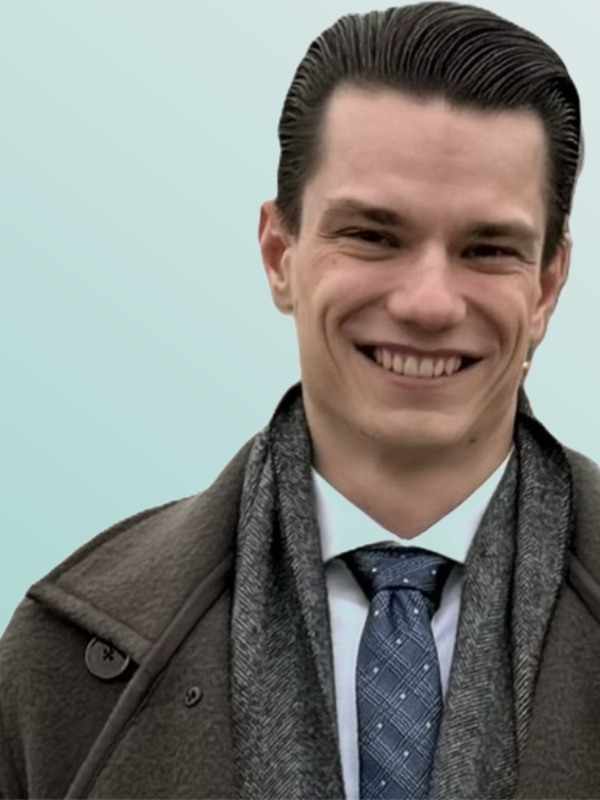
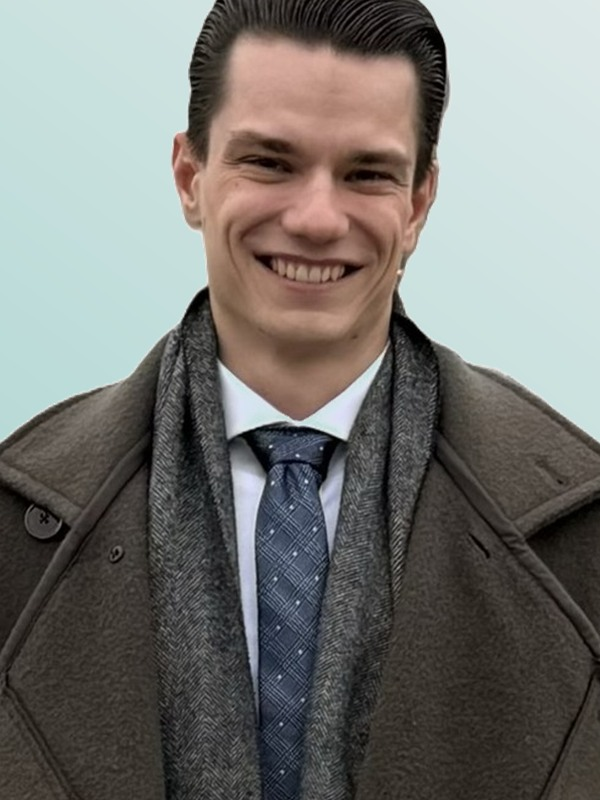
Fix team photo framing and update Samuel bio
- JB: tighter zoom (1.15x) with slight downward shift for better face framing
- SK: fixed DPI bug causing tiny/black render; reprocessed from original with correct 962x1167 bbox
- Samuel bio: replace 'Academic grounding in geopolitics' with threat intelligence / supply chain line

diff --git a/index.html b/index.html
@@ -1,15 +1,15 @@
-<!DOCTYPE html>
+<!DOCTYPE html>
 <html lang="en">
 <head>
   <meta charset="UTF-8" />
   <meta name="viewport" content="width=device-width, initial-scale=1.0" />
-  <title>Ashcairn — Technology Risk &amp; Resilience</title>
+  <title>Ashcairn â€” Technology Risk &amp; Resilience</title>
   <link rel="preconnect" href="https://fonts.googleapis.com" />
   <link rel="preconnect" href="https://fonts.gstatic.com" crossorigin />
   <link href="https://fonts.googleapis.com/css2?family=Sora:wght@300;400;500;600&family=Inter:ital,wght@0,300;0,400;0,500;0,600;0,900;1,300&display=swap" rel="stylesheet" />
   <style>
 
-    /* ── Reset ─────────────────────────────────────────────────── */
+    /* â”€â”€ Reset â”€â”€â”€â”€â”€â”€â”€â”€â”€â”€â”€â”€â”€â”€â”€â”€â”€â”€â”€â”€â”€â”€â”€â”€â”€â”€â”€â”€â”€â”€â”€â”€â”€â”€â”€â”€â”€â”€â”€â”€â”€â”€â”€â”€â”€â”€â”€â”€â”€â”€â”€ */
     *, *::before, *::after { box-sizing: border-box; margin: 0; padding: 0; }
 
     :root {
@@ -65,7 +65,7 @@
     .section-deep { padding: 124px 0; background: var(--bg-deep); }
     .section-warm { padding: 124px 0; background: var(--teal-light); }
 
-    /* ── Fade-in ───────────────────────────────────────────────── */
+    /* â”€â”€ Fade-in â”€â”€â”€â”€â”€â”€â”€â”€â”€â”€â”€â”€â”€â”€â”€â”€â”€â”€â”€â”€â”€â”€â”€â”€â”€â”€â”€â”€â”€â”€â”€â”€â”€â”€â”€â”€â”€â”€â”€â”€â”€â”€â”€â”€â”€â”€â”€â”€â”€ */
     .fade-in {
       opacity: 0;
       transform: translateY(12px);
@@ -74,7 +74,7 @@
     }
     .fade-in.visible { opacity: 1; transform: translateY(0); }
 
-    /* ── NAV ───────────────────────────────────────────────────── */
+    /* â”€â”€ NAV â”€â”€â”€â”€â”€â”€â”€â”€â”€â”€â”€â”€â”€â”€â”€â”€â”€â”€â”€â”€â”€â”€â”€â”€â”€â”€â”€â”€â”€â”€â”€â”€â”€â”€â”€â”€â”€â”€â”€â”€â”€â”€â”€â”€â”€â”€â”€â”€â”€â”€â”€â”€â”€ */
     nav {
       position: fixed;
       top: 0; left: 0; right: 0;
@@ -145,7 +145,7 @@
 
     .nav-cta:hover { background: var(--teal) !important; color: white !important; }
 
-    /* ── HERO ──────────────────────────────────────────────────── */
+    /* â”€â”€ HERO â”€â”€â”€â”€â”€â”€â”€â”€â”€â”€â”€â”€â”€â”€â”€â”€â”€â”€â”€â”€â”€â”€â”€â”€â”€â”€â”€â”€â”€â”€â”€â”€â”€â”€â”€â”€â”€â”€â”€â”€â”€â”€â”€â”€â”€â”€â”€â”€â”€â”€â”€â”€ */
     #hero {
       min-height: 100vh;
       display: flex;
@@ -299,7 +299,7 @@
 
     .btn-ghost:hover { color: var(--teal); border-color: var(--teal); }
 
-    /* ── SECTION HEADERS ───────────────────────────────────────── */
+    /* â”€â”€ SECTION HEADERS â”€â”€â”€â”€â”€â”€â”€â”€â”€â”€â”€â”€â”€â”€â”€â”€â”€â”€â”€â”€â”€â”€â”€â”€â”€â”€â”€â”€â”€â”€â”€â”€â”€â”€â”€â”€â”€â”€â”€â”€â”€ */
     .section-header {
       display: grid;
       grid-template-columns: 200px 1fr;
@@ -328,7 +328,7 @@
       margin-top: 14px;
     }
 
-    /* ── WHO WE ARE ────────────────────────────────────────────── */
+    /* â”€â”€ WHO WE ARE â”€â”€â”€â”€â”€â”€â”€â”€â”€â”€â”€â”€â”€â”€â”€â”€â”€â”€â”€â”€â”€â”€â”€â”€â”€â”€â”€â”€â”€â”€â”€â”€â”€â”€â”€â”€â”€â”€â”€â”€â”€â”€â”€â”€â”€â”€ */
     .who-quote {
       margin-top: 48px;
       padding: 36px 48px;
@@ -362,7 +362,7 @@
       position: relative;
     }
 
-    /* ── SERVICES ──────────────────────────────────────────────── */
+    /* â”€â”€ SERVICES â”€â”€â”€â”€â”€â”€â”€â”€â”€â”€â”€â”€â”€â”€â”€â”€â”€â”€â”€â”€â”€â”€â”€â”€â”€â”€â”€â”€â”€â”€â”€â”€â”€â”€â”€â”€â”€â”€â”€â”€â”€â”€â”€â”€â”€â”€â”€â”€ */
     .services-grid {
       display: grid;
       grid-template-columns: repeat(3, 1fr);
@@ -410,7 +410,7 @@
       line-height: 1.8;
     }
 
-    /* ── TEAM ──────────────────────────────────────────────────── */
+    /* â”€â”€ TEAM â”€â”€â”€â”€â”€â”€â”€â”€â”€â”€â”€â”€â”€â”€â”€â”€â”€â”€â”€â”€â”€â”€â”€â”€â”€â”€â”€â”€â”€â”€â”€â”€â”€â”€â”€â”€â”€â”€â”€â”€â”€â”€â”€â”€â”€â”€â”€â”€â”€â”€â”€â”€ */
 
     .team-grid {
       display: grid;
@@ -531,7 +531,7 @@
       margin-bottom: 12px;
     }
 
-    /* ── SPECIALISMS ───────────────────────────────────────────── */
+    /* â”€â”€ SPECIALISMS â”€â”€â”€â”€â”€â”€â”€â”€â”€â”€â”€â”€â”€â”€â”€â”€â”€â”€â”€â”€â”€â”€â”€â”€â”€â”€â”€â”€â”€â”€â”€â”€â”€â”€â”€â”€â”€â”€â”€â”€â”€â”€â”€â”€â”€ */
     .spec-list {
       display: grid;
       grid-template-columns: repeat(3, 1fr);
@@ -580,7 +580,7 @@
       line-height: 1.85;
     }
 
-    /* ── SELECTED WORK ─────────────────────────────────────────── */
+    /* â”€â”€ SELECTED WORK â”€â”€â”€â”€â”€â”€â”€â”€â”€â”€â”€â”€â”€â”€â”€â”€â”€â”€â”€â”€â”€â”€â”€â”€â”€â”€â”€â”€â”€â”€â”€â”€â”€â”€â”€â”€â”€â”€â”€â”€â”€â”€â”€ */
     .tombstone-grid {
       display: grid;
       grid-template-columns: repeat(4, 1fr);
@@ -693,7 +693,7 @@
     }
 
     .cs-d-item::before {
-      content: '→';
+      content: 'â†’';
       color: var(--teal);
       font-family: var(--font-mono);
       font-size: 11px;
@@ -725,7 +725,7 @@
     }
 
     .cs-outcome::before {
-      content: '✓';
+      content: 'âœ“';
       color: var(--teal);
       font-family: var(--font-mono);
       font-weight: 500;
@@ -733,7 +733,7 @@
       flex-shrink: 0;
     }
 
-    /* ── CONTACT ───────────────────────────────────────────────── */
+    /* â”€â”€ CONTACT â”€â”€â”€â”€â”€â”€â”€â”€â”€â”€â”€â”€â”€â”€â”€â”€â”€â”€â”€â”€â”€â”€â”€â”€â”€â”€â”€â”€â”€â”€â”€â”€â”€â”€â”€â”€â”€â”€â”€â”€â”€â”€â”€â”€â”€â”€â”€â”€â”€ */
     #contact {
       background: var(--ink);
       background-image: radial-gradient(ellipse at 95% 10%, rgba(13,148,136,0.10) 0%, transparent 55%);
@@ -820,7 +820,7 @@
 
     .btn-contact:hover { background: var(--teal); color: white; gap: 16px; }
 
-    /* ── FOOTER ────────────────────────────────────────────────── */
+    /* â”€â”€ FOOTER â”€â”€â”€â”€â”€â”€â”€â”€â”€â”€â”€â”€â”€â”€â”€â”€â”€â”€â”€â”€â”€â”€â”€â”€â”€â”€â”€â”€â”€â”€â”€â”€â”€â”€â”€â”€â”€â”€â”€â”€â”€â”€â”€â”€â”€â”€â”€â”€â”€â”€ */
     footer {
       background: #0f0f0f;
       border-top: 1px solid rgba(13,148,136,0.18);
@@ -849,7 +849,7 @@
       letter-spacing: 0.05em;
     }
 
-    /* ── Responsive ────────────────────────────────────────────── */
+    /* â”€â”€ Responsive â”€â”€â”€â”€â”€â”€â”€â”€â”€â”€â”€â”€â”€â”€â”€â”€â”€â”€â”€â”€â”€â”€â”€â”€â”€â”€â”€â”€â”€â”€â”€â”€â”€â”€â”€â”€â”€â”€â”€â”€â”€â”€â”€â”€â”€â”€ */
     @media (max-width: 1024px) {
       .team-grid { grid-template-columns: repeat(2, 1fr); gap: 40px; }
     }
@@ -950,7 +950,7 @@
     <div class="container">
       <div class="hero-inner">
         <div class="hero-label fade-in">
-          <span class="label">Technology Risk · Resilience · Advisory</span>
+          <span class="label">Technology Risk Â· Resilience Â· Advisory</span>
         </div>
         <h1 class="hero-headline fade-in">
           Understand<br>
@@ -964,8 +964,8 @@
           to handle what comes next.
         </p>
         <div class="hero-actions fade-in">
-          <a href="#contact" class="btn-primary">Work with us →</a>
-          <a href="#what" class="btn-ghost">What we do →</a>
+          <a href="#contact" class="btn-primary">Work with us â†’</a>
+          <a href="#what" class="btn-ghost">What we do â†’</a>
         </div>
       </div>
     </div>
@@ -1004,7 +1004,7 @@
         <div class="service-card fade-in">
           <div class="service-title">Understand</div>
           <div class="service-subtitle">The threats you actually face</div>
-          <p class="service-desc">We identify the specific threats you face: who, how, and from where — whether from sophisticated cyber crime groups, insiders and accidents, through to changing regulations.</p>
+          <p class="service-desc">We identify the specific threats you face: who, how, and from where â€” whether from sophisticated cyber crime groups, insiders and accidents, through to changing regulations.</p>
         </div>
 
         <div class="service-card fade-in">
@@ -1032,7 +1032,7 @@
         </div>
         <div class="fade-in">
           <h2 class="section-title">The people behind the advice.</h2>
-          <p class="section-body">Careers built across the major advisory firms. When you work with Ashcairn, you work with us — directly.</p>
+          <p class="section-body">Careers built across the major advisory firms. When you work with Ashcairn, you work with us â€” directly.</p>
         </div>
       </div>
       <div class="team-grid">
@@ -1081,15 +1081,15 @@
 
         <div class="team-card fade-in">
           <div class="team-photo">
-            <img src="team-jb.jpg" alt="Samuel Kudláč">
+            <img src="team-jb.jpg" alt="Samuel KudlÃ¡Ä">
             <div class="team-photo-overlay"></div>
             <div class="team-bio">
-              <div class="bio-name">Samuel Kudláč</div>
+              <div class="bio-name">Samuel KudlÃ¡Ä</div>
               <div class="bio-rule"></div>
-              <p class="bio-text">Provides boards and senior leadership with intelligence-led assessments of the threats that matter. Translates geopolitical dynamics into actionable insight for executive decision-making. Academic grounding in geopolitics.</p>
+              <p class="bio-text">Provides boards and senior leadership with intelligence-led assessments of the threats that matter. Translates geopolitical dynamics into actionable insight for executive decision-making. Professional background in threat intelligence and supply chain cyber risk management.</p>
             </div>
           </div>
-          <div class="team-name">Samuel Kudláč</div>
+          <div class="team-name">Samuel KudlÃ¡Ä</div>
           <div class="team-role">Cyber Threat Intelligence</div>
         </div>
 
@@ -1168,7 +1168,7 @@
           <div class="tombstone-client">London-based international private equity firm</div>
         </div>
       </div>
-      <p class="work-note fade-in">A non-exhaustive selection of engagements · Further detail available on request</p>
+      <p class="work-note fade-in">A non-exhaustive selection of engagements Â· Further detail available on request</p>
 
       <!-- Featured case study -->
       <div class="cs-label fade-in"><span class="label">Featured case study</span></div>
@@ -1181,7 +1181,7 @@
           </div>
           <div class="cs-block">
             <div class="cs-block-label">How we worked</div>
-            <p>We went to the sites and worked directly with the people running them. Using a business risk-based methodology, we worked out what an incident would actually cost — then designed a right-sized security approach built around what the client could genuinely deliver. We stripped back anything that existed to look good rather than to work.</p>
+            <p>We went to the sites and worked directly with the people running them. Using a business risk-based methodology, we worked out what an incident would actually cost â€” then designed a right-sized security approach built around what the client could genuinely deliver. We stripped back anything that existed to look good rather than to work.</p>
           </div>
           <div class="cs-block">
             <div class="cs-block-label">What we delivered</div>
@@ -1233,7 +1233,7 @@
             one, reach out.
           </p>
           <a href="mailto:info@ashcairn.com" class="btn-contact">
-            Start a conversation →
+            Start a conversation â†’
           </a>
         </div>
       </div>
@@ -1245,7 +1245,7 @@
     <span class="footer-logo">
       <img src="logos/Ashcairn%20Logo%20Light.svg" alt="Ashcairn" />
     </span>
-    <span class="footer-right">© Ashcairn Ltd · All rights reserved</span>
+    <span class="footer-right">Â© Ashcairn Ltd Â· All rights reserved</span>
   </footer>
 
   <script>
@@ -1273,3 +1273,4 @@
   </script>
 </body>
 </html>
+
